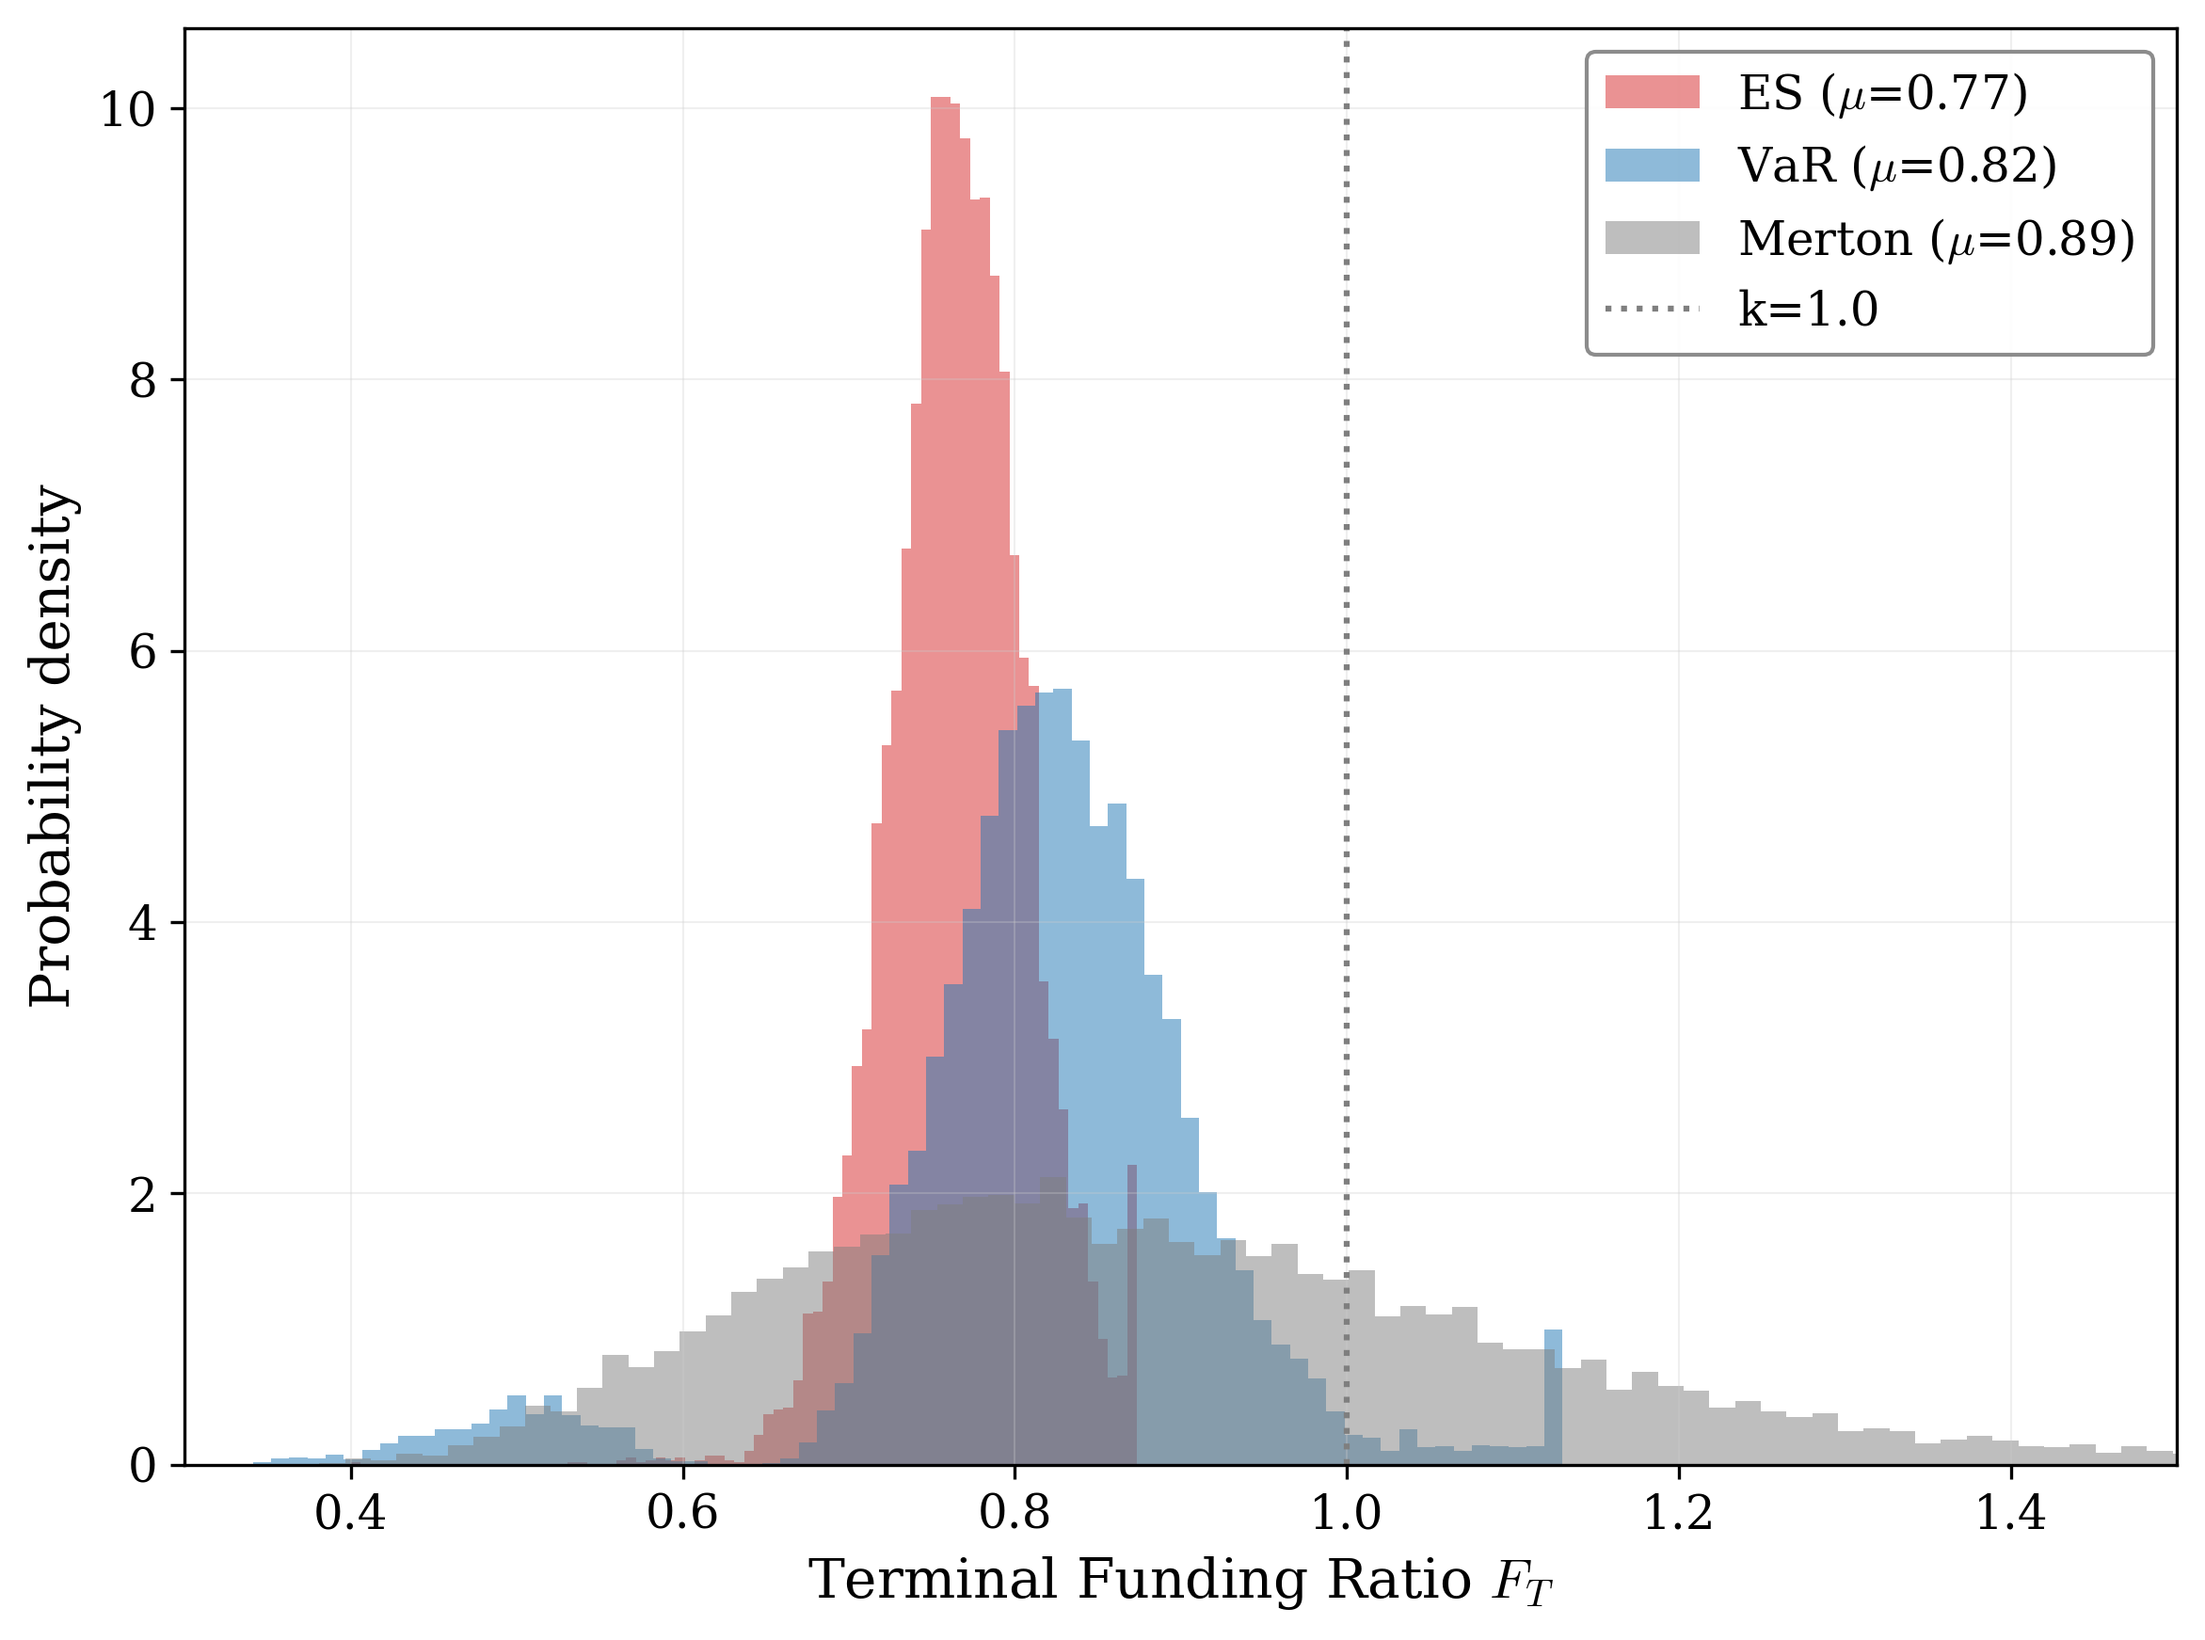
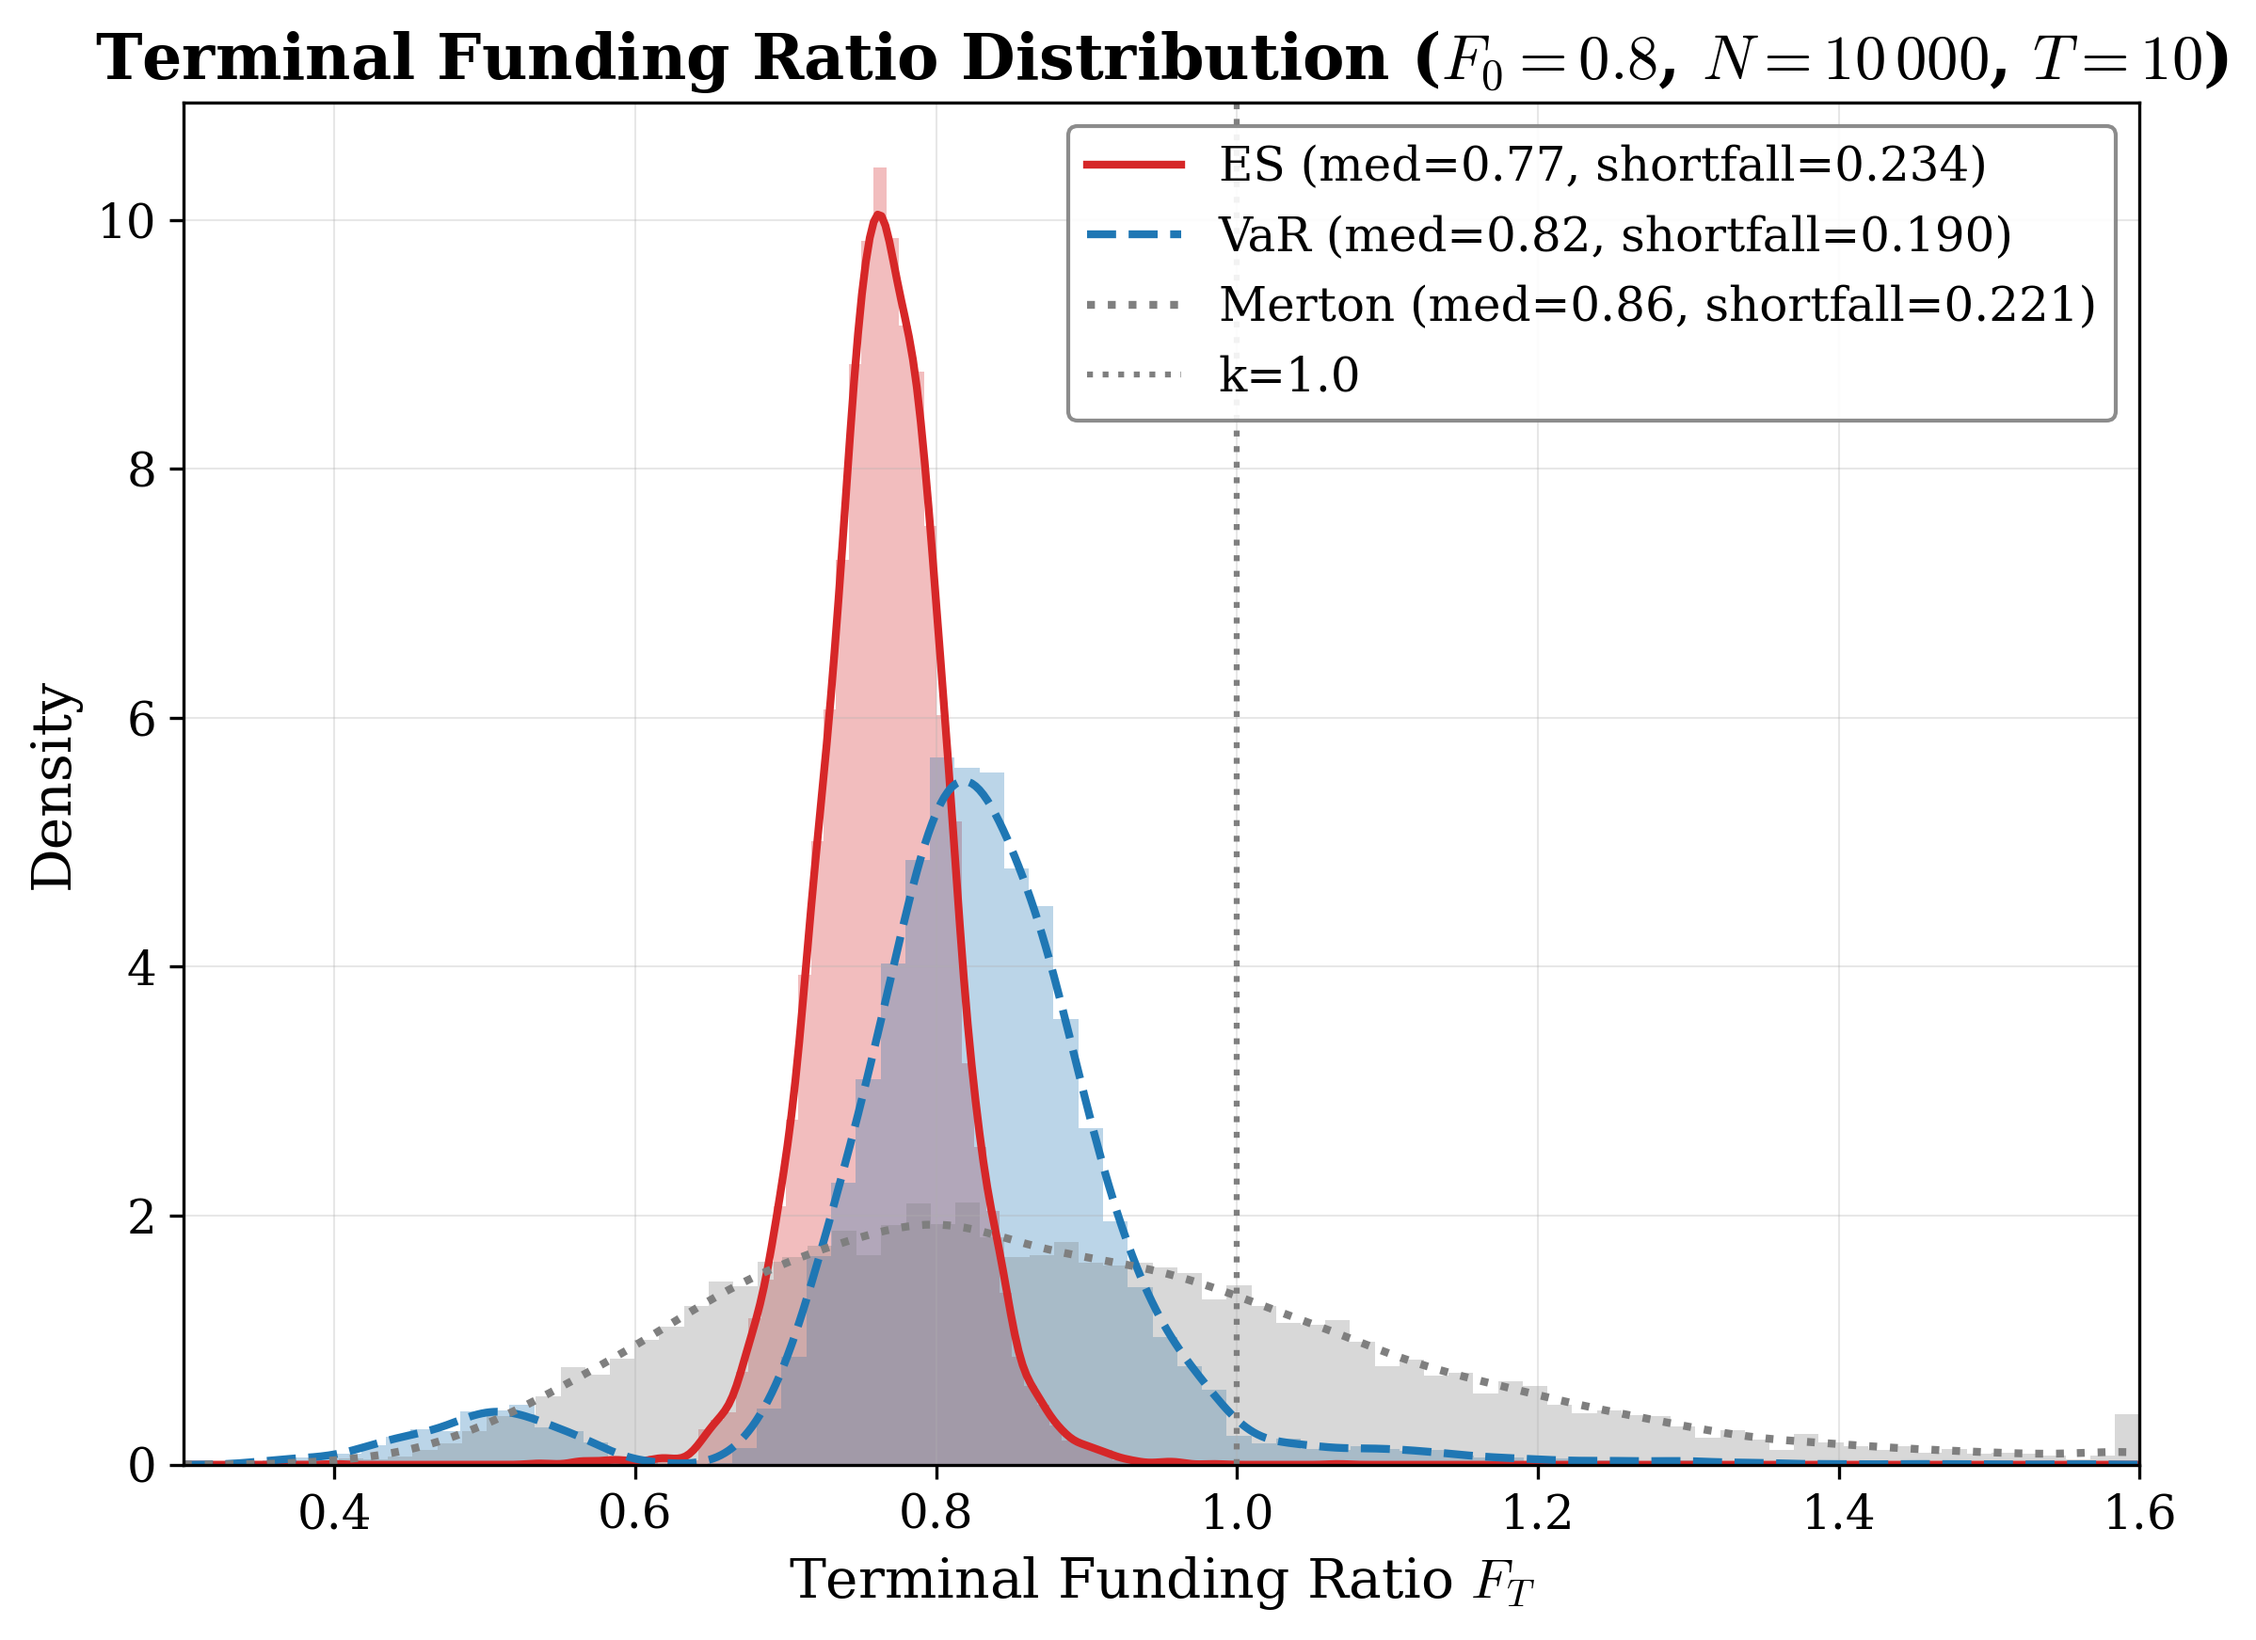
MC terminal xlim 1.8→1.6 조정, 결과 그림 paper/figures/ 복사
https://claude.ai/code/session_016kjvHphKj23btj2NkXoUS2

Changed region(s): [[0.0312, 0.0, 0.997, 0.9914], [0.0, 0.3098, 0.0312, 0.6196]]

diff --git a/scripts/run_monte_carlo.py b/scripts/run_monte_carlo.py
@@ -100,14 +100,14 @@ def run_scenario(y0, tag=""):
     for model in MODELS:
         Y_T = results[model]['paths'][:, -1]
         ts = results[model]['tstats']
-        # Clip outliers to [0, 1.8] for visibility
-        Y_T_clip = np.clip(Y_T, 0, 1.8)
+        # Clip outliers to [0, 1.6] for visibility
+        Y_T_clip = np.clip(Y_T, 0, 1.6)
         # Histogram with low alpha (KDE is the primary visual)
         ax.hist(Y_T_clip, bins=80, alpha=0.3, color=MC_COLORS[model],
                 density=True)
         # KDE overlay
         kde = gaussian_kde(Y_T_clip)
-        x_kde = np.linspace(0.3, 1.8, 500)
+        x_kde = np.linspace(0.3, 1.6, 500)
         ax.plot(x_kde, kde(x_kde), color=MC_COLORS[model], lw=2,
                 linestyle=kde_linestyles[model],
                 label=(f"{LABELS[model]} "
@@ -116,7 +116,7 @@ def run_scenario(y0, tag=""):
     ax.axvline(P.k, **MERTON_LINE, label=f'k={P.k}')
     ax.set_xlabel('Terminal Funding Ratio $F_T$')
     ax.set_ylabel('Density')
-    ax.set_xlim(0.3, 1.8)
+    ax.set_xlim(0.3, 1.6)
     ax.set_title(f'Terminal Funding Ratio Distribution '
                  f'($F_0 = {y0}$, $N = 10\\,000$, $T = {P.T:.0f}$)')
     ax.legend(**LEGEND)
